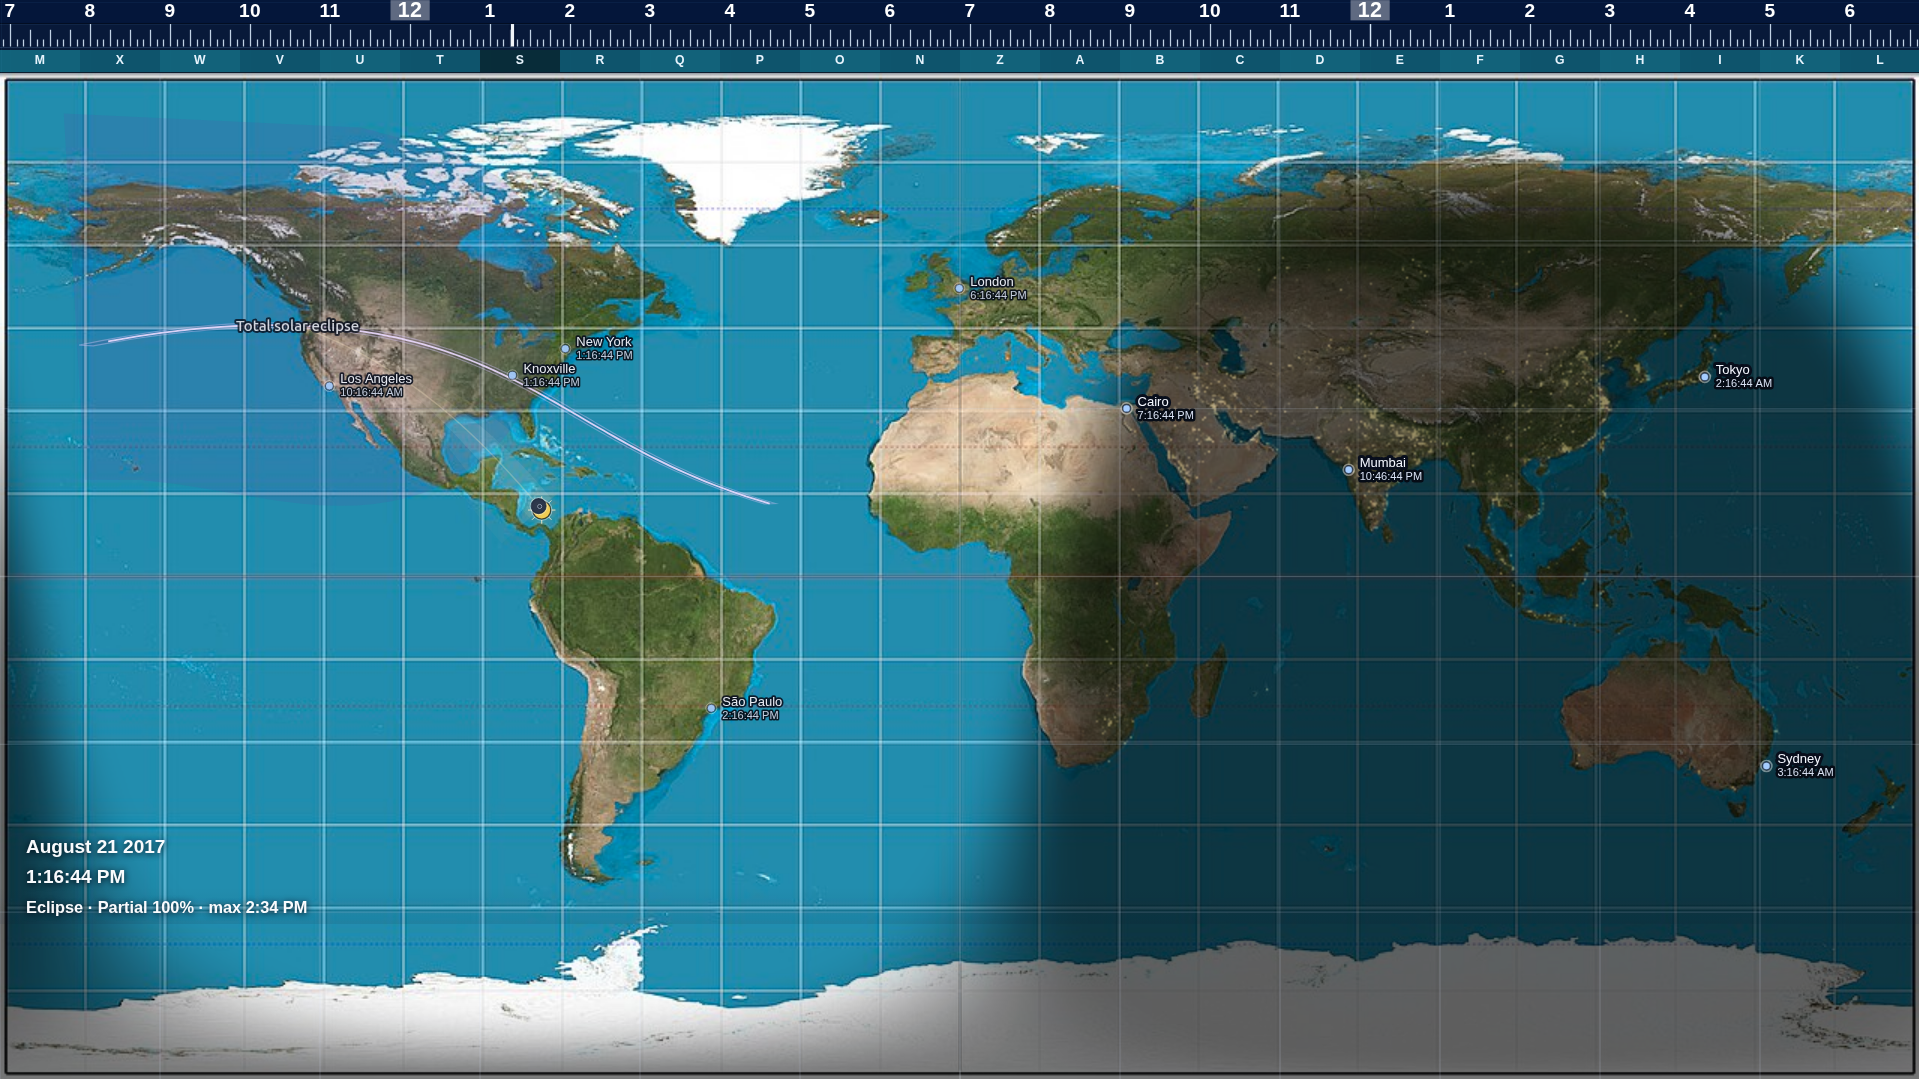
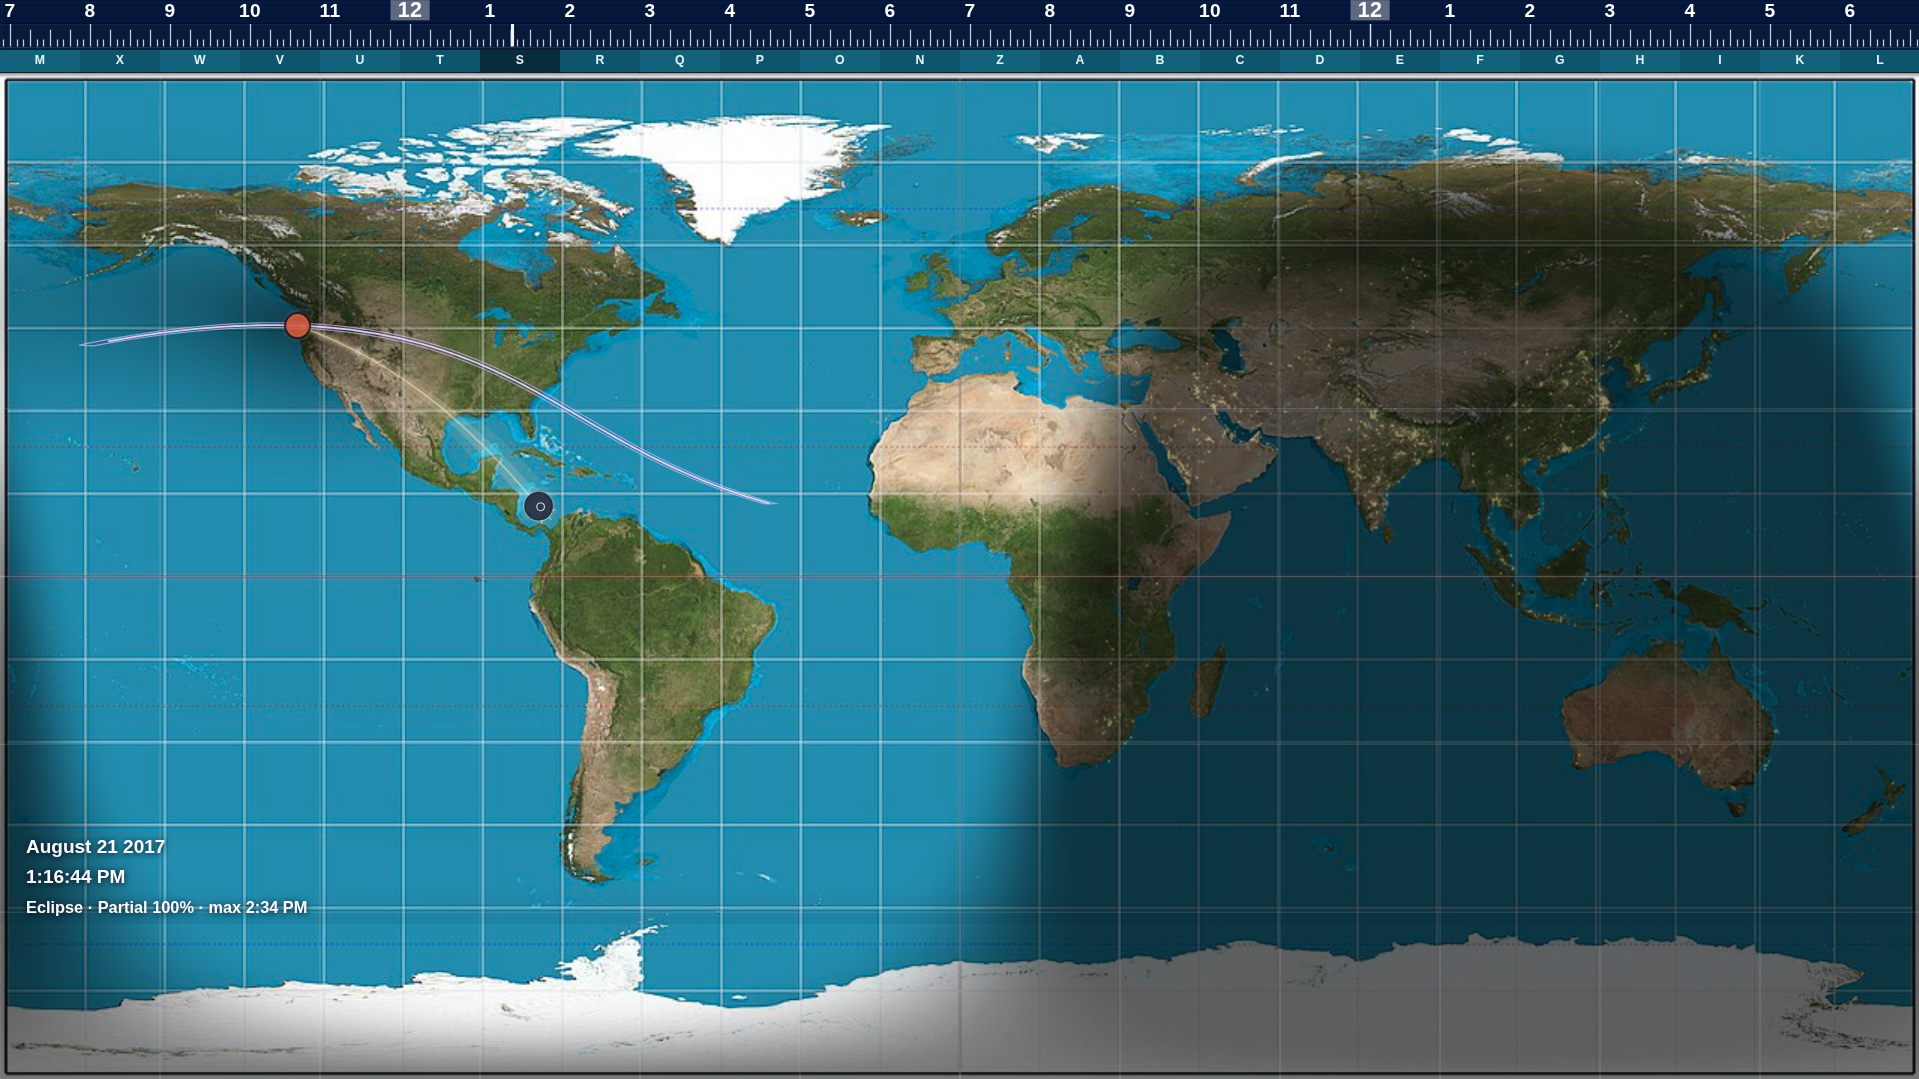
docs: recapture 2017 eclipse showcase after illumination fixes
- recapture six canonical 2017 eclipse showcase images
- use final post-LIB-029 eclipse rendering
- document deterministic capture procedure and viewport behavior
- complete LIB-024 and return repository to awaiting scope

diff --git a/docs/work/LIB-024-solar-eclipse-ground-position-marker.md b/docs/work/LIB-024-solar-eclipse-ground-position-marker.md
@@ -3,12 +3,12 @@
 | Field | Value |
 |-------|-------|
 | ID | LIB-024 |
-| Status | approved |
+| Status | complete |
 | Created | 2026-08-16 |
 | Approved | 2026-08-16 (human; this request) |
-| Completed | |
+| Completed | 2026-08-16 |
 
-Paused 2026-08-16 by human direction. [LIB-025](LIB-025-solar-eclipse-lifecycle-shading-reconciliation.md) is complete. Ground-position marker implementation remains in the tree. README recapture still waits for an explicit later request; do not recapture media until asked.
+Resumed 2026-08-16 by explicit human request after LIB-025–LIB-029 eclipse presentation work was accepted. Marker implementation remains in the tree; this activation is README recapture only.
 
 Human-authorized item. Authorized to create, approve, activate, diagnose, implement, recapture the 2017 README screenshots, verify, and complete in the same request. Do not commit, push, tag, branch, or release.
 
@@ -77,16 +77,52 @@ Make the instantaneous authoritative ground position of a live central solar ecl
 
 ## Completion record
 
-Fill only when completing.
-
 **Implementation summary**
+
+Ground-position marker implementation was already in the tree from the paused first session (vermilion `#d45a3c`, Large size, Dramatic alignment, Extra Large Moon, Event labels off via `solar-eclipse-2017` showcase). This completion is the deferred README recapture after LIB-025–LIB-029 were accepted. Replaced all six `docs/images/eclipse-2017/` PNGs via the LIB-023 canvas `toDataURL` pipeline from `?scenario=solar-eclipse-2017` at the LIB-022 station UTCs. No eclipse architecture, product factory defaults, or README.md edits. Capture session CSS now also zeros `html`/`body` margin so the UA 8px body margin cannot lock the canvas at 1904px.
 
 **Commands run**
 
+- Cursor Browser CDP: `Emulation.setDeviceMetricsOverride` 1920×1080 before navigation; `canvas.toDataURL('image/png')` after `overflow:hidden`, `margin:0`, canvas `100%`, `resize`
+- PIL: dimensions, SHA-256 prefixes, left-vs-+912 uniqueness, #2–#5 framing diffs
+- Lossless #6 crop from GE frame, box `(220,90,900,630)` → 680×540 RGB
+- `npx tsc --noEmit`
+- `npm test`
+- `npm run build` plus `dist/` scenario-registry check
+
 **Actual results**
+
+| File | UTC | px | bytes | sha256 prefix |
+|------|-----|----|------:|---------------|
+| `eclipse-2017-01-forecast.png` | 2017-08-16T18:00:00Z | 1919×1079 | 2678035 | `98ae8032d6b3c421` |
+| `eclipse-2017-02-active-path-overview.png` | 2017-08-21T18:00:00Z | 1919×1079 | 2673455 | `5b2d2dcb026fb68a` |
+| `eclipse-2017-03-active-early.png` | 2017-08-21T17:16:44Z | 1919×1079 | 2692993 | `c41b180cadabe380` |
+| `eclipse-2017-04-active-mid.png` | 2017-08-21T18:25:29.700Z | 1919×1079 | 2671838 | `cf3c219daa561e3d` |
+| `eclipse-2017-05-active-late.png` | 2017-08-21T18:48:44.000Z | 1919×1079 | 2682542 | `9d3d44a87061e84f` |
+| `eclipse-2017-06-beam-closeup.png` | 2017-08-21T18:25:29.700Z | 680×540 crop | 426305 | `755bd89f02c25f19` |
+
+Honest backing 1919×1079. Not upscaled. Showcase: Extra Large Moon, Event labels off, Dramatic alignment, Large vermilion marker, Active eclipse shading Normal, 7-day horizon. #2–#5 same full-world framing (full meanAbs 3.1–8.8). left-vs-+912 meanAbs 45–59 (not tiled). `npx tsc --noEmit` clean. `npm test` 206 files / 1965 passed / 0 failed. `npm run build` succeeded; `dist/` contains no `solar-eclipse-2017` / `eclipseStation` / `visualScenarios`.
 
 **Visual verification**
 
+- Scenario: `solar-eclipse-2017` (`eclipseStation=ge` / `lateCentral`; Data-tab demo start for forecast / 18:00Z / 17:16:44Z)
+- Viewport: requested 1920×1080 CSS; canvas export 1919×1079; Cursor pane compositor must not be captured with `Page.captureScreenshot`
+- Browser: Cursor built-in
+- Inspected: single top ruler, single HUD, one equirect world, no 912 px tile, no Config/DEV banner/Cursor chrome; forecast corridor without marker/beam/physical field; Oregon landfall / Nebraska / Kentucky GE / Carolina marker motion; gold Dramatic beam on active central frames; violet corridor; compact umbra; Extra Large Moon; Knoxville HUD; west/east eclipse-domain walls absent; terminator remains ordinary night; #6 crop glyph→beam→umbra with no clipped event label
+- Result: PASS
+- Observations: HUD `2:25:29 PM` matches NASA GE `18:25:29.700Z` (Knoxville EDT). Knoxville still reads `Eclipse · Partial 100% · max 2:34 PM` (just off the path). Far-right ±360° wrap sliver is intended seam handling. City pins remain off (showcase scenario), so README-scale pin crowding from LIB-023 does not appear.
+
 **Not verified**
 
+- Physical 1920×1080 OS window outside Cursor Browser
+- GitHub live README rendering (README.md does not currently include these files)
+- Pixel-perfect Dramatic ribbon geometry vs Normal
+- Event information DOM panel (absent from canvas export)
+
 **Discovered, not done**
+
+- README.md still does not embed the six eclipse PNGs (explicit out of scope, unchanged from LIB-022/023).
+- `fullWorldFixed` only — #6 remains a screenshot crop.
+- `applyViewport` inline pixel CSS lock is genuine layout behaviour; not changed for screenshots.
+- Showcase `solar-eclipse-2017` has City pins off; LIB-023 session had turned them on. Recapture followed the showcase, not that session override.
+- UA default `body { margin: 8px }` must be zeroed in capture-session CSS to reach 1919×1079; recorded in [`docs/VISUAL_VERIFICATION.md`](../VISUAL_VERIFICATION.md).

diff --git a/docs/DEVELOPMENT_LOG.md b/docs/DEVELOPMENT_LOG.md
@@ -184,6 +184,12 @@ Reconciled active solar-eclipse illumination with ordinary daylight. The west/ea
 
 Verified: `npx tsc --noEmit` clean; `npm test` 206 files / 1965 passed / 0 failed; `npm run build` with no scenario registry in `dist/`. Cursor Browser: 2017 horizon A–E / rasterWest / east 19:40Z and 20:05Z, annular, partial, dateline, ordinary startup; canvas transects at 16:45Z and 19:55:32Z.
 
+## 2026-08-16 — LIB-024 complete
+
+Resumed after LIB-025–LIB-029. Marker implementation was already in the tree. Recaptured the six 2017 README PNGs from `solar-eclipse-2017` showcase (Extra Large Moon, Event labels off, Dramatic alignment, Large vermilion marker) via canvas `toDataURL` at 1919×1079; #6 is a 680×540 lossless crop. README.md not edited. No eclipse architecture changes.
+
+Verified: `npx tsc --noEmit` clean; `npm test` 206 files / 1965 passed / 0 failed; `npm run build` with no scenario registry in `dist/`. Cursor Browser canvas exports at the six LIB-022 station UTCs; left-vs-+912 uniqueness confirmed.
+
 
 
 

diff --git a/docs/VISUAL_VERIFICATION.md b/docs/VISUAL_VERIFICATION.md
@@ -56,7 +56,7 @@ A PNG that is nominally 1920×1080 is not proof of one Libration viewport. LIB-0
 Do this instead:
 
 1. Set device metrics to 1920×1080 **before** navigation/reload so layout initializes at that size.
-2. After load, `html`/`body` `overflow: hidden`; set the scene canvas CSS to `100%` width/height and dispatch `resize` so remaining slack is absorbed.
+2. After load, `html`/`body` `overflow: hidden` and `margin: 0` (the UA 8px body margin otherwise locks the canvas ~16px short of 1920); set the scene canvas CSS to `100%` width/height and dispatch `resize` so remaining slack is absorbed.
 3. Export with `canvas.toDataURL('image/png')`. Honest backing size may be 1919×1079 (`Math.floor(1920 * dpr)` at dpr slightly under 1). Do not upscale.
 4. Confirm left vs +~900 px columns are **not** pixel-identical before accepting the file.
 

diff --git a/docs/STATE.md b/docs/STATE.md
@@ -9,7 +9,7 @@ None
 
 ## Last completed
 
-[LIB-029](work/LIB-029-solar-eclipse-horizon-illumination-reconciliation.md) — Solar-eclipse horizon / illumination composition reconciliation
+[LIB-024](work/LIB-024-solar-eclipse-ground-position-marker.md) — Solar eclipse live ground-position marker + 2017 README recapture
 
 ## Blockers
 
@@ -21,8 +21,8 @@ None
 
 ## Awaiting human decision
 
-[LIB-024](work/LIB-024-solar-eclipse-ground-position-marker.md) remains approved and paused. Marker implementation is in the tree; README recapture waits for an explicit request. Do not activate it from this snapshot.
+None
 
 ## Next action
 
-Stop. No approved work remains. Do not start speculative items. LIB-024 README recapture waits for an explicit request.
+Stop. No approved work remains. Do not start speculative items.
